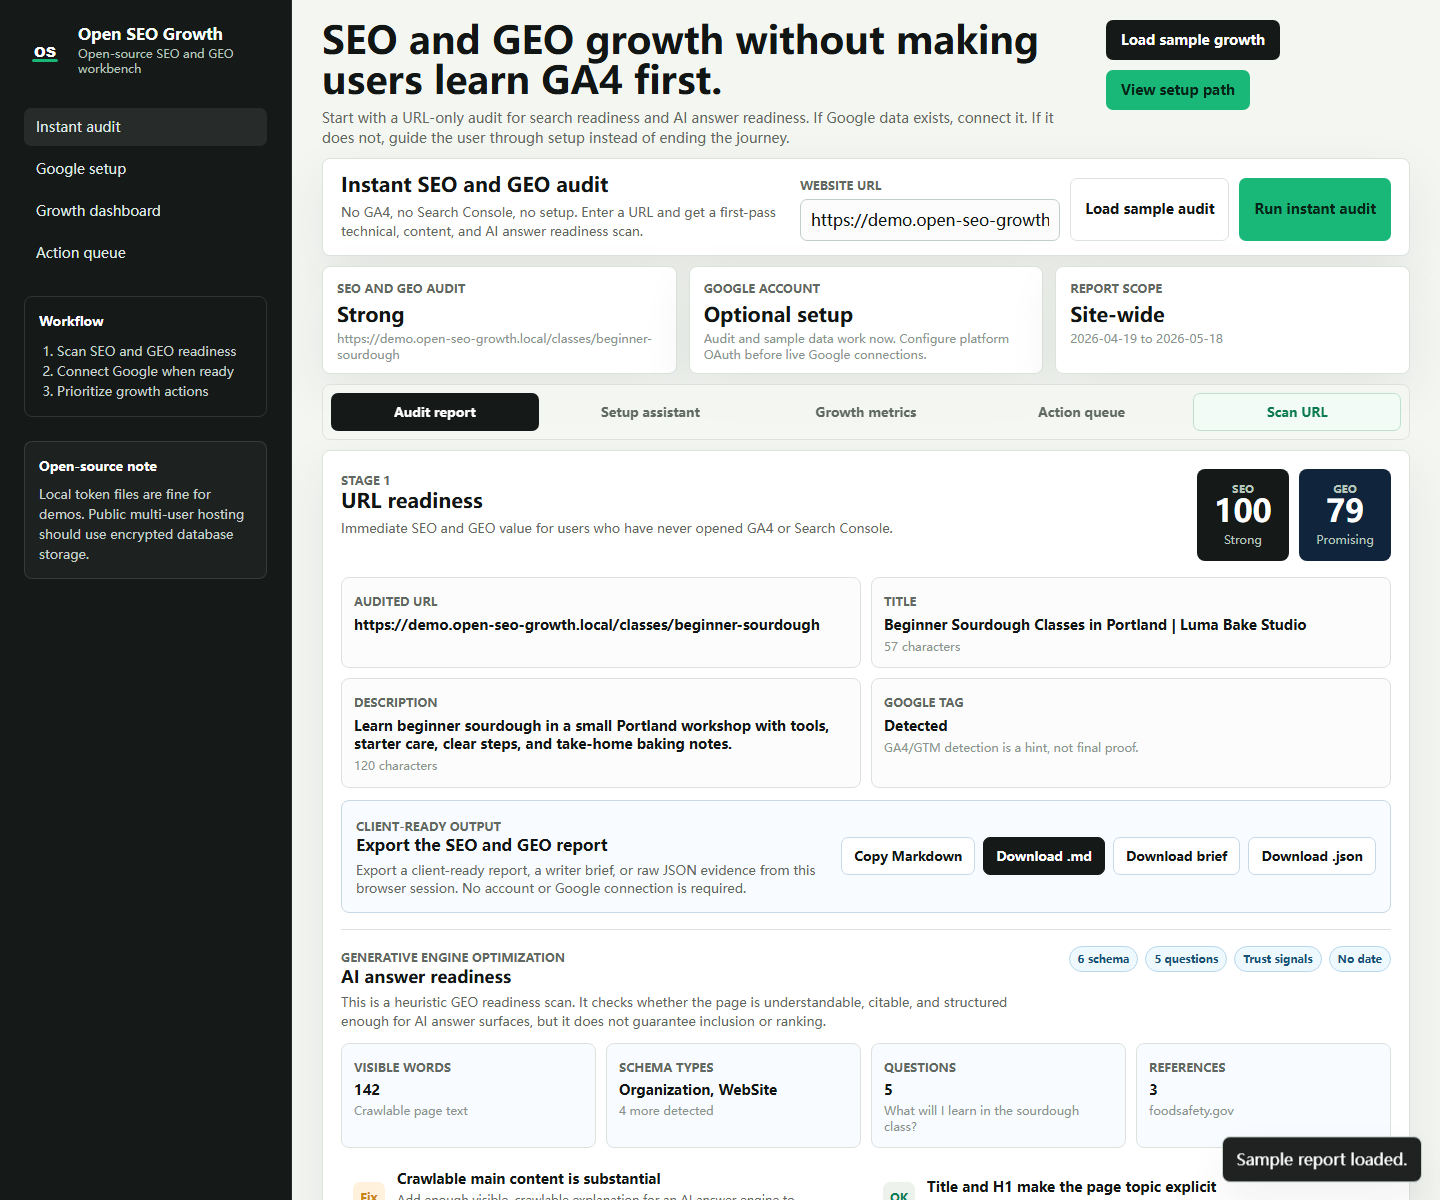
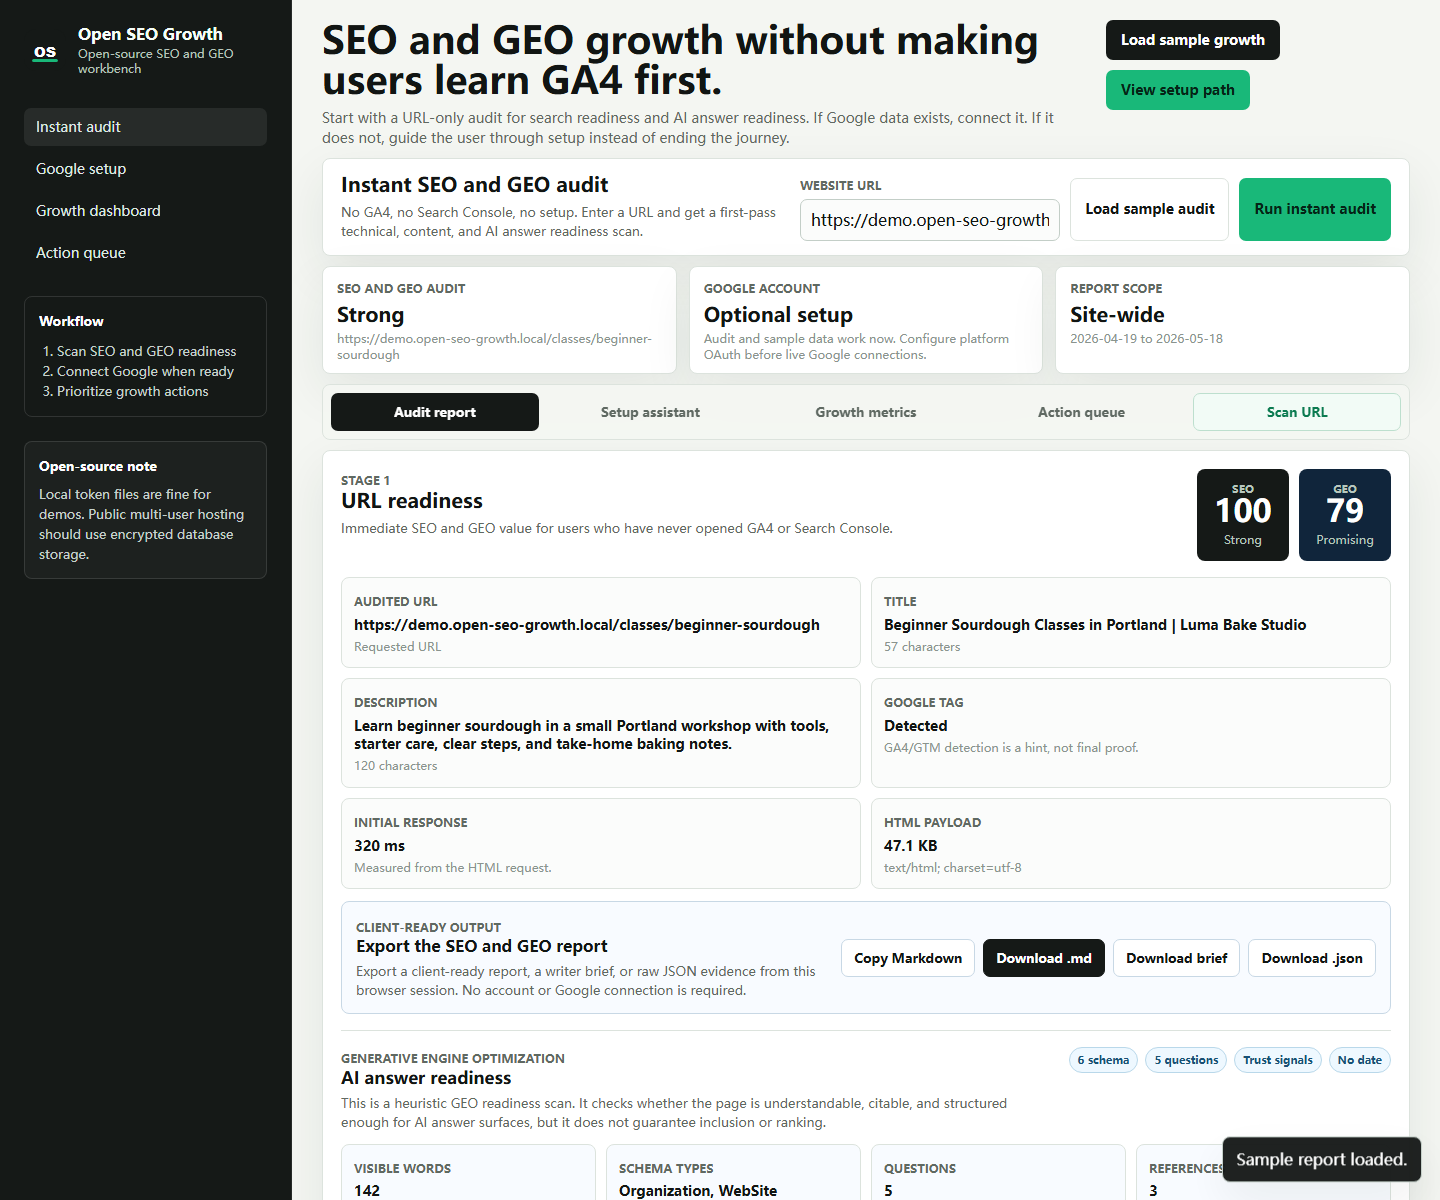
Add technical performance audit signals

diff --git a/static/app.js b/static/app.js
@@ -44,6 +44,20 @@ function currency(value) {
   return Intl.NumberFormat("en", { style: "currency", currency: "USD", maximumFractionDigits: 0 }).format(num);
 }
 
+function milliseconds(value) {
+  if (value === null || value === undefined || value === "") return "-";
+  const num = Number(value);
+  if (!Number.isFinite(num)) return "-";
+  return `${Math.round(num).toLocaleString()} ms`;
+}
+
+function kilobytes(value) {
+  if (value === null || value === undefined || value === "") return "-";
+  const num = Number(value);
+  if (!Number.isFinite(num)) return "-";
+  return `${num.toLocaleString(undefined, { maximumFractionDigits: 1 })} KB`;
+}
+
 function isoDate() {
   return new Date().toISOString().slice(0, 10);
 }
@@ -467,6 +481,8 @@ function buildAuditMarkdown(audit) {
     `- SEO readiness: ${audit.score ?? "-"} (${audit.grade || "Not graded"})`,
     `- GEO readiness: ${geo.score ?? "-"} (${geo.grade || "Not graded"})`,
     `- Google tag: ${summary.ga4_detected || summary.gtm_detected ? "Detected" : "Not detected"}`,
+    `- Initial HTML response: ${milliseconds(summary.response_time_ms)}`,
+    `- Initial HTML payload: ${kilobytes(summary.html_kb)}`,
     `- Visible words: ${geoSignals.visible_word_count ?? summary.body_word_count ?? "-"}`,
     `- Schema types: ${(geoSignals.schema_types || summary.schema_types || []).join(", ") || "None detected"}`,
     ``,
@@ -502,6 +518,12 @@ function buildAuditMarkdown(audit) {
     `- Meta description: ${summary.description || "No meta description found"}`,
     `- H1: ${(summary.h1 || []).join(" | ") || "No H1 found"}`,
     `- Canonical: ${summary.canonical || "Not declared"}`,
+    `- Final URL: ${summary.final_url || audit.audited_url || "-"}`,
+    `- Redirected: ${summary.redirected ? "Yes" : "No"}`,
+    `- HTTP status: ${audit.status_code || "-"}`,
+    `- Content type: ${summary.content_type || "Not detected"}`,
+    `- Initial HTML response: ${milliseconds(summary.response_time_ms)}`,
+    `- Initial HTML payload: ${kilobytes(summary.html_kb)} (${compactNumber(summary.html_bytes)} bytes)`,
     `- Internal links: ${summary.internal_links ?? 0}`,
     `- External links: ${summary.external_links ?? 0}`,
     `- External reference hosts: ${(summary.external_hosts || []).join(", ") || "None detected"}`,
@@ -969,10 +991,13 @@ function renderAudit(audit) {
   const summary = audit.summary || {};
   const title = summary.title || "No title found";
   const description = summary.description || "No meta description found";
+  const htmlSize = Number.isFinite(Number(summary.html_kb)) ? kilobytes(summary.html_kb) : "-";
+  const responseTime = milliseconds(summary.response_time_ms);
   $("auditSummary").innerHTML = `
     <article>
       <span>Audited URL</span>
       <strong>${escapeHtml(audit.audited_url || "-")}</strong>
+      <small>${escapeHtml(summary.redirected ? "Final URL after redirects" : "Requested URL")}</small>
     </article>
     <article>
       <span>Title</span>
@@ -988,6 +1013,16 @@ function renderAudit(audit) {
       <span>Google tag</span>
       <strong>${summary.ga4_detected || summary.gtm_detected ? "Detected" : "Not detected"}</strong>
       <small>GA4/GTM detection is a hint, not final proof.</small>
+    </article>
+    <article>
+      <span>Initial response</span>
+      <strong>${escapeHtml(responseTime)}</strong>
+      <small>Measured from the HTML request.</small>
+    </article>
+    <article>
+      <span>HTML payload</span>
+      <strong>${escapeHtml(htmlSize)}</strong>
+      <small>${escapeHtml(summary.content_type || "Content type not detected")}</small>
     </article>
   `;
   const report = audit.no_google_report || {};

diff --git a/tests/test_instant_audit.py b/tests/test_instant_audit.py
@@ -1,6 +1,6 @@
 import pytest
 
-from seo_growth.instant_audit import PageSignals, SignalParser, build_geo_report, normalize_url, sample_audit
+from seo_growth.instant_audit import PageSignals, SignalParser, build_audit_response, build_geo_report, normalize_url, sample_audit
 
 
 def test_normalize_url_adds_scheme_and_root_path():
@@ -69,6 +69,9 @@ def test_sample_audit_is_export_ready_and_has_geo_evidence():
     assert audit["demo"] is True
     assert audit["score"] == 100
     assert audit["grade"] == "Strong"
+    assert audit["summary"]["response_time_ms"] == 320
+    assert audit["summary"]["html_kb"] == 47.1
+    assert audit["summary"]["content_type"] == "text/html; charset=utf-8"
     assert geo["score"] == 79
     assert geo["grade"] == "Promising"
     assert geo_checks["llms_txt"]["experimental"] is True
@@ -80,6 +83,41 @@ def test_sample_audit_is_export_ready_and_has_geo_evidence():
     assert "private analytics data" in geo["content_brief"]["safe_prompt"]
     assert any(item["title"] == "Optional llms.txt handoff" for item in geo["content_brief"]["recommended_sections"])
     assert any(item["title"] == "Add freshness evidence" for item in geo["content_brief"]["recommended_sections"])
+
+
+def test_audit_scores_response_time_and_html_payload():
+    signals = PageSignals(
+        title="Practical SEO Audit Service for Growing Teams",
+        description="A practical SEO audit service that reviews indexability, content structure, analytics setup, and growth opportunities.",
+        canonical="https://example.com/audit",
+        robots_meta="index,follow",
+        h1=["Practical SEO Audit Service"],
+        body_text="This page explains technical SEO, content quality, analytics setup, and practical growth opportunities.",
+        links_internal=2,
+        schema_types=["Organization", "WebSite"],
+        ga4_detected=True,
+    )
+    audit = build_audit_response(
+        audited_url="https://example.com/audit",
+        status_code=200,
+        signals=signals,
+        robots={"ok": True, "status_code": 200, "url": "https://example.com/robots.txt"},
+        sitemap={"ok": True, "status_code": 200, "url": "https://example.com/sitemap.xml"},
+        llms_txt={"ok": False, "status_code": 404, "url": "https://example.com/llms.txt"},
+        response_time_ms=2500,
+        html_bytes=650_000,
+        content_type="text/html",
+        final_url="https://example.com/audit",
+    )
+    checks = {item["id"]: item for item in audit["checks"]}
+
+    assert audit["score"] == 94
+    assert checks["response_time"]["ok"] is False
+    assert checks["html_size"]["ok"] is False
+    assert audit["summary"]["response_time_ms"] == 2500
+    assert audit["summary"]["html_bytes"] == 650_000
+    assert audit["summary"]["html_kb"] == 634.8
+    assert "server response time" in checks["response_time"]["fix"]
 
 
 def test_geo_content_brief_recommends_writer_actions_for_sparse_page():

diff --git a/seo_growth/instant_audit.py b/seo_growth/instant_audit.py
@@ -588,11 +588,19 @@ def build_audit_response(
     robots: dict[str, Any],
     sitemap: dict[str, Any],
     llms_txt: dict[str, Any],
+    response_time_ms: int | None = None,
+    html_bytes: int | None = None,
+    content_type: str = "",
+    final_url: str = "",
+    redirected: bool = False,
     demo: bool = False,
 ) -> dict[str, Any]:
     title_len = len(signals.title)
     description_len = len(signals.description)
     geo_report = build_geo_report(signals, robots, llms_txt)
+    html_kb = round(html_bytes / 1024, 1) if html_bytes is not None else None
+    response_time_ok = response_time_ms is not None and response_time_ms <= 2000
+    html_size_ok = html_bytes is not None and html_bytes <= 500_000
     checks = [
         {"id": "http_ok", "label": "Homepage returns a successful response", "ok": status_code < 400, "weight": 12, "fix": "Fix server errors or redirect loops before optimizing content."},
         {"id": "title", "label": "Title tag is present and within a useful range", "ok": 20 <= title_len <= 65, "weight": 12, "fix": "Write a specific title around 45-60 characters."},
@@ -602,10 +610,12 @@ def build_audit_response(
         {"id": "robots_meta", "label": "Page is not blocked by robots meta", "ok": "noindex" not in signals.robots_meta.lower(), "weight": 10, "fix": "Remove noindex unless the page should stay out of Google."},
         {"id": "robots_txt", "label": "robots.txt is reachable", "ok": bool(robots.get("ok")), "weight": 7, "fix": "Expose robots.txt at the site root."},
         {"id": "sitemap", "label": "sitemap.xml is reachable", "ok": bool(sitemap.get("ok")), "weight": 7, "fix": "Publish a sitemap and submit it in Search Console."},
-        {"id": "image_alt", "label": "Images have alt text", "ok": signals.images == 0 or signals.images_missing_alt == 0, "weight": 6, "fix": "Add descriptive alt text to important images."},
-        {"id": "internal_links", "label": "Internal links exist", "ok": signals.links_internal > 0, "weight": 6, "fix": "Add links to important pages so Google and users can continue."},
-        {"id": "schema", "label": "Structured data is present", "ok": bool(signals.schema_types), "weight": 6, "fix": "Add Organization, WebSite, Article, Product, or relevant schema."},
-        {"id": "analytics", "label": "Analytics tag is detectable", "ok": signals.ga4_detected or signals.gtm_detected, "weight": 6, "fix": "Install GA4 or Google Tag Manager before expecting traffic reports."},
+        {"id": "image_alt", "label": "Images have alt text", "ok": signals.images == 0 or signals.images_missing_alt == 0, "weight": 4, "fix": "Add descriptive alt text to important images."},
+        {"id": "internal_links", "label": "Internal links exist", "ok": signals.links_internal > 0, "weight": 5, "fix": "Add links to important pages so Google and users can continue."},
+        {"id": "schema", "label": "Structured data is present", "ok": bool(signals.schema_types), "weight": 4, "fix": "Add Organization, WebSite, Article, Product, or relevant schema."},
+        {"id": "analytics", "label": "Analytics tag is detectable", "ok": signals.ga4_detected or signals.gtm_detected, "weight": 5, "fix": "Install GA4 or Google Tag Manager before expecting traffic reports."},
+        {"id": "response_time", "label": "Initial HTML response is reasonably fast", "ok": response_time_ok, "weight": 4, "fix": "Improve server response time, redirects, caching, or hosting until the initial HTML returns in under two seconds."},
+        {"id": "html_size", "label": "HTML payload is not unusually heavy", "ok": html_size_ok, "weight": 2, "fix": "Reduce server-rendered HTML weight, inline scripts, or bloated markup so the initial document stays under 500 KB."},
     ]
     score = sum(score_check(item["ok"], item["weight"]) for item in checks)
     blockers = [item for item in checks if not item["ok"] and item["weight"] >= 10]
@@ -654,6 +664,12 @@ def build_audit_response(
             "title_length": title_len,
             "description": signals.description,
             "description_length": description_len,
+            "response_time_ms": response_time_ms,
+            "html_bytes": html_bytes,
+            "html_kb": html_kb,
+            "content_type": content_type,
+            "final_url": final_url or audited_url,
+            "redirected": redirected,
             "h1": signals.h1,
             "headings": signals.headings,
             "body_word_count": word_count(signals.body_text),
@@ -691,6 +707,8 @@ def instant_audit(raw_url: str) -> dict[str, Any]:
     url = normalize_url(raw_url)
     response = fetch_url(url)
     html = response.text[:1_500_000]
+    response_time_ms = int(response.elapsed.total_seconds() * 1000) if response.elapsed else None
+    html_bytes = len(response.content)
     parser = SignalParser(response.url)
     parser.feed(html)
     signals = parser.finalize()
@@ -706,6 +724,11 @@ def instant_audit(raw_url: str) -> dict[str, Any]:
         robots=robots,
         sitemap=sitemap,
         llms_txt=llms_txt,
+        response_time_ms=response_time_ms,
+        html_bytes=html_bytes,
+        content_type=response.headers.get("content-type", ""),
+        final_url=response.url,
+        redirected=bool(response.history),
     )
 
 
@@ -764,5 +787,10 @@ def sample_audit() -> dict[str, Any]:
         robots={"ok": True, "status_code": 200, "url": "https://demo.open-seo-growth.local/robots.txt"},
         sitemap={"ok": True, "status_code": 200, "url": "https://demo.open-seo-growth.local/sitemap.xml"},
         llms_txt={"ok": False, "status_code": 404, "url": "https://demo.open-seo-growth.local/llms.txt"},
+        response_time_ms=320,
+        html_bytes=48_200,
+        content_type="text/html; charset=utf-8",
+        final_url="https://demo.open-seo-growth.local/classes/beginner-sourdough",
+        redirected=False,
         demo=True,
     )

diff --git a/README.md b/README.md
@@ -16,10 +16,10 @@ Runtime screenshot captured from the running Flask app at `http://127.0.0.1:8792
 
 ## What You Can Run Today
 
-- Instant URL audit with no Google setup
+- Instant URL audit with no Google setup, including HTTP status, response timing, and HTML payload evidence
 - GEO readiness scan for crawlable text, answer structure, schema, trust signals, freshness, references, and optional `llms.txt`
 - Prompt-safe GEO writer brief generated from audit evidence
-- Client-ready Markdown export and JSON evidence export from the browser
+- Client-ready Markdown export and JSON evidence export from the browser, including technical response evidence
 - Built-in sample audit for demos without network, Google, or a real website
 - No-Google starter report for beginners
 - Clickable sandbox flow for the Google setup journey

diff --git a/docs/architecture.md b/docs/architecture.md
@@ -25,6 +25,8 @@ Browser UI
 
 The user enters a URL and receives an instant technical, on-page, and GEO readiness audit. This mode does not require OAuth, GA4, or Search Console.
 
+The audit records the final fetched URL, redirect status, HTTP status, content type, initial HTML response time, and HTML payload size. These signals are included in the SEO score, browser summary, Markdown report, JSON export, and action queue when they fail.
+
 The GEO report is generated from the same fetched HTML. It looks for visible content depth, clear page topic signals, structured data, answer-led sections, trust evidence, freshness dates, external references, search access, and optional `/llms.txt`.
 
 The same evidence also generates a prompt-safe content brief. The brief turns detected gaps into recommended sections, schema guidance, trust guidance, citation guidance, and a writer prompt that explicitly avoids invented rankings, traffic, reviews, prices, credentials, citations, or private analytics data.